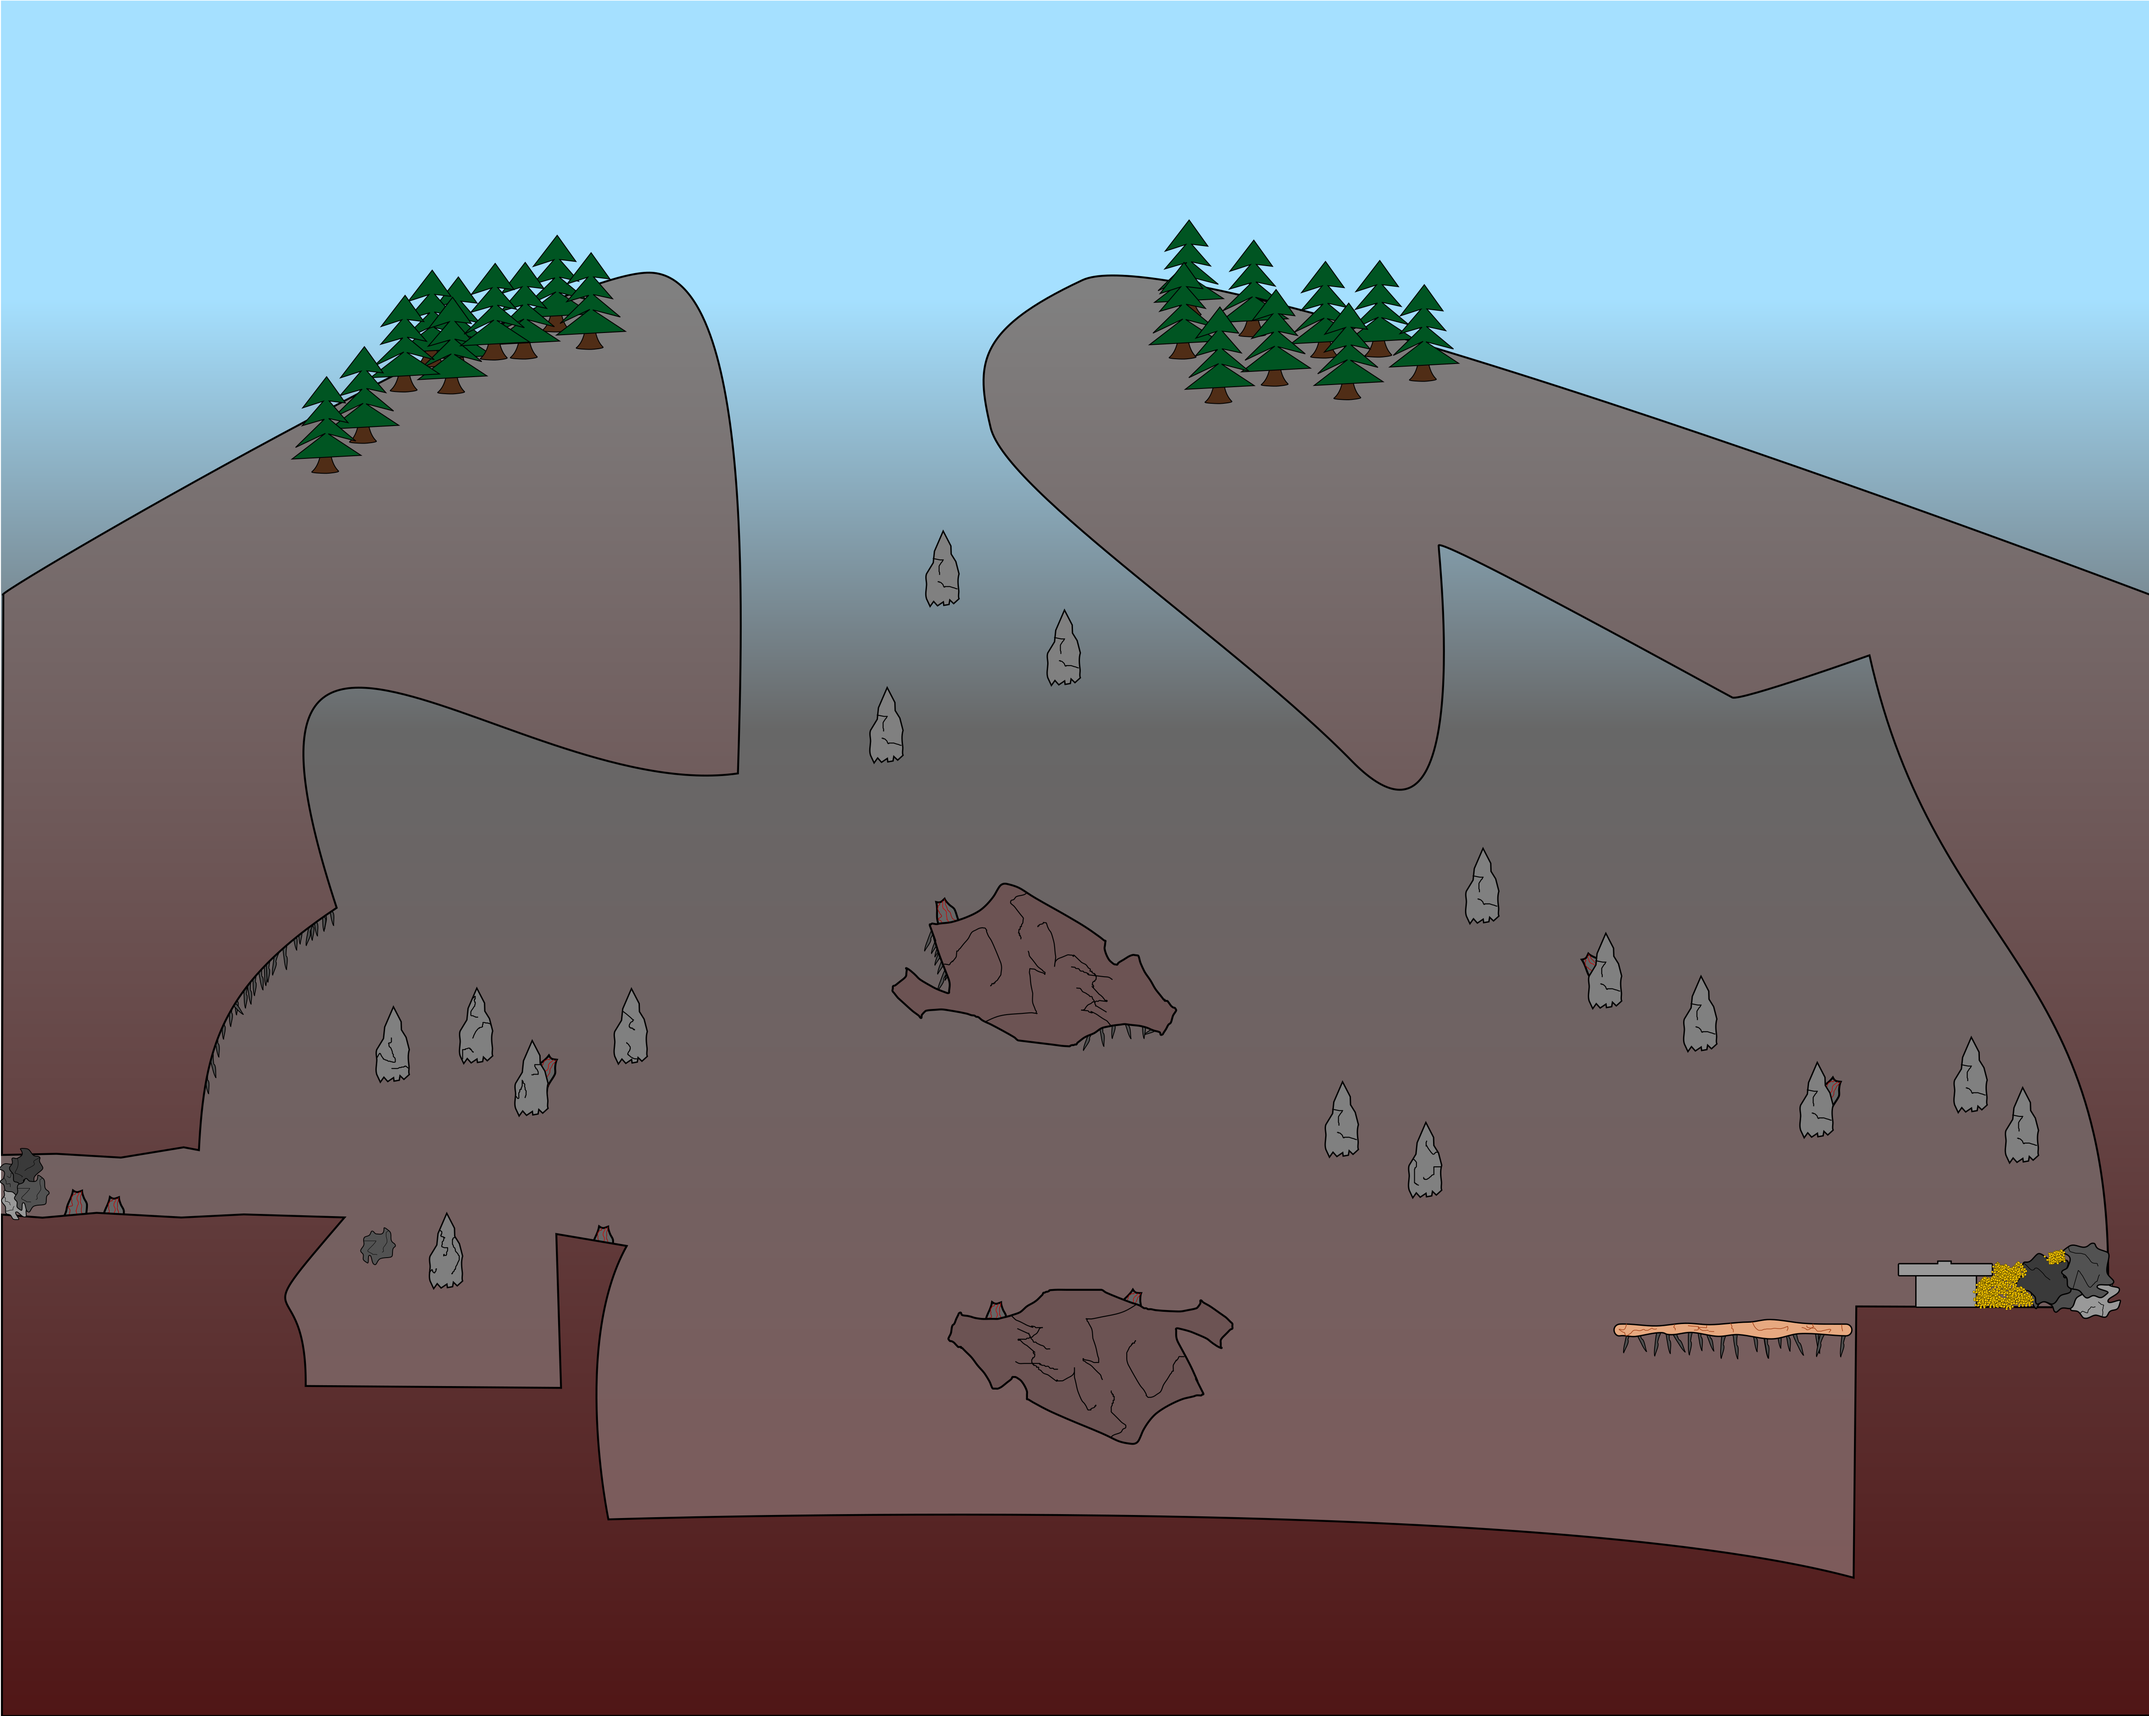
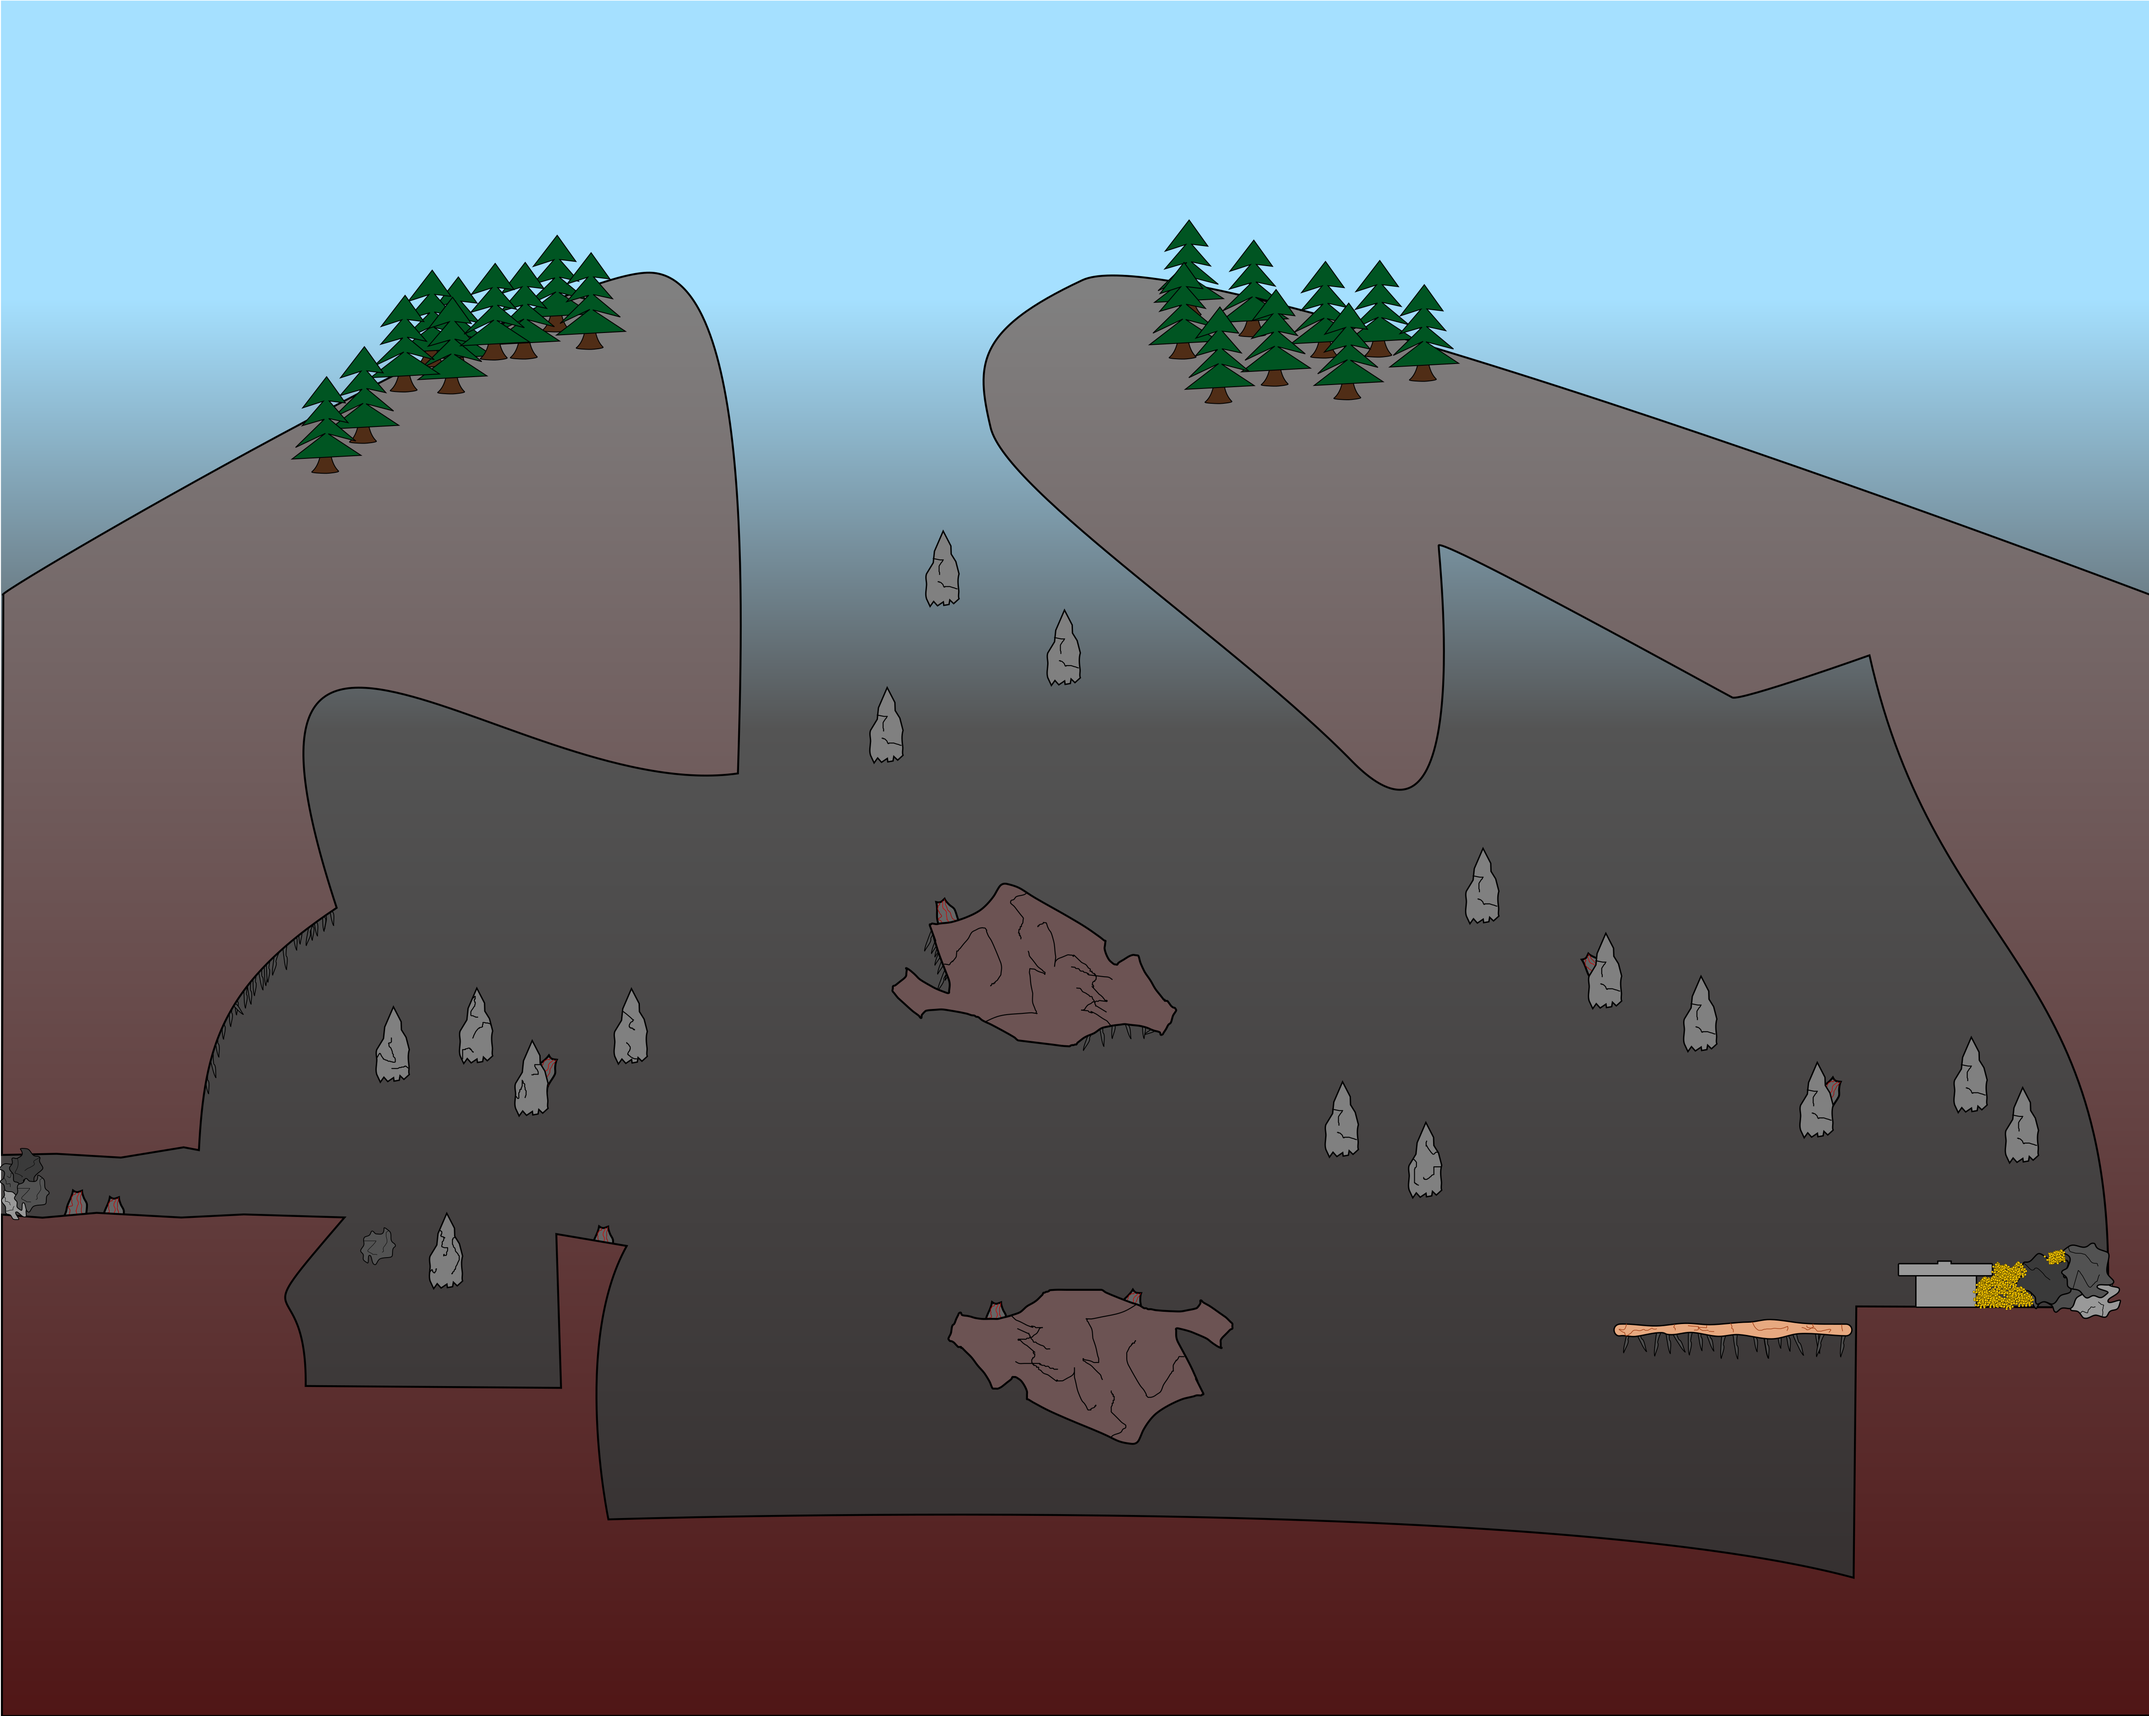
More fixes

Changed region(s): [[0.0, 0.466, 0.9957, 0.932]]

diff --git a/core/src/main/java/de/doccrazy/ld37/game/actor/PlayerActor.java b/core/src/main/java/de/doccrazy/ld37/game/actor/PlayerActor.java
@@ -211,7 +211,7 @@ public class PlayerActor extends SpriterActor<GameWorld> implements Damageable {
 
     @Override
     public void damage(float amount, Weapon weapon) {
-        world.postEvent(new FloatingTextEvent(body.getPosition().x, body.getPosition().y + RADIUS, Float.toString((int)amount), false, false));
+        world.postEvent(new FloatingTextEvent(body.getPosition().x + MathUtils.random(-RADIUS/2, RADIUS/2), body.getPosition().y + RADIUS, Float.toString((int)amount), false, false));
         health -= amount;
         if (health < 0) {
             kill();

diff --git a/core/src/main/java/de/doccrazy/ld37/game/GameRenderer.java b/core/src/main/java/de/doccrazy/ld37/game/GameRenderer.java
@@ -49,7 +49,6 @@ public class GameRenderer extends BaseGameRenderer<GameWorld> {
 	@Override
 	protected void beforeRender() {
         float h = world.getPlayer().getY() / world.getLevel().getBoundingBox().height;
-        System.out.println(h/2f);
         world.rayHandler.setAmbientLight(new Color(0.5f + h/2.1f, 0.4f + h/2, 0.4f + h/2, 1f));
 
         shakeAmount = shakeAmount * 0.91f;

diff --git a/core/src/main/java/de/doccrazy/ld37/data/Constants.java b/core/src/main/java/de/doccrazy/ld37/data/Constants.java
@@ -1,7 +1,7 @@
 package de.doccrazy.ld37.data;
 
 public class Constants {
-    public static final String GAME_TITLE = "Game Name TODO";
+    public static final String GAME_TITLE = "Volcano Quest";
     public static final int COMPO_ID = 37;
 
     public static final int SCREEN_WIDTH = 1280;
